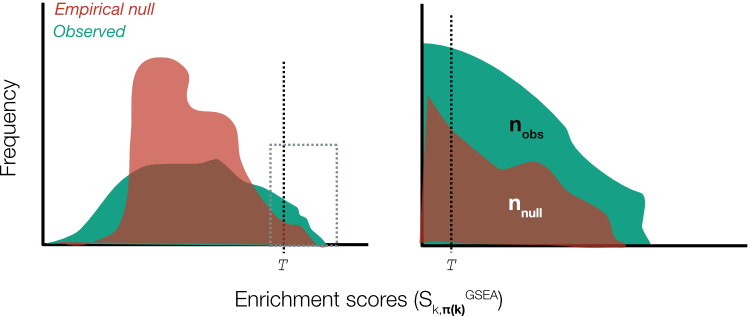
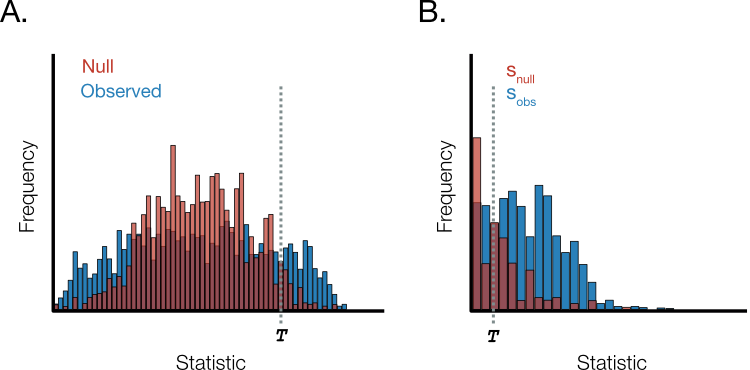
finished draft of FDR

diff --git a/_analysis/gsea.md b/_analysis/gsea.md
@@ -370,57 +370,86 @@ Note that throughout this discussion we have chosen to depict the GSEA global st
 ## <a href="#multipleTesting" name="multipleTesting">VII. Multiple testing correction</a>
 
 <div class="alert alert-warning text-justify" role="alert">
-  You may wish to review our primer on <a href="{{site.baseurl}}/primers/functional_analysis/multiple_testing/">multiple  testing</a> before reading this section, in particular, the section on <a href="{{site.baseurl}}/primers/functional_analysis/multiple_testing/#controllingFDR">false discovery rates</a>.
+  You may wish to review our primer on <a href="{{site.baseurl}}/primers/functional_analysis/multiple_testing/">multiple  testing</a>, in particular the section on <a href="{{site.baseurl}}/primers/functional_analysis/multiple_testing/#controllingFDR">false discovery rates</a>.
 </div>
 
-When we test a family of hypotheses, the chances of observing a rare value of a statistic increases. If those values exceed the significance level, they can be erroneously classified as discoveries, that is, they are Type I errors. Multiple testing procedures attempt to quantify and control for these.
+When we test a family of hypotheses, the chance of observing a statistic with a small p-value increases. When smaller than the significance level, they can be erroneously classified as discoveries or Type I errors. Multiple testing procedures attempt to quantify and control for these.
 
-In GSEA, the collection of gene sets interrogated against the observed data represents the family of test hypotheses. The recommended procedure for quantifying Type I errors is the false discovery rate (FDR). The FDR is defined as the expected value of the fraction of rejected null hypotheses that are true; In practice, GSEA attempts to establish this proportion empirically.
+In GSEA, the collection of gene sets interrogated against the observed data are a family of hypotheses. The recommended procedure for quantifying Type I errors is the false discovery rate (FDR). The FDR is defined as the expected value of the fraction of rejected null hypotheses that are in fact true. In practice, GSEA establishes this proportion empirically.
 
-In general, given a specified threshold $$T$$ of the global statistic, the FDR is be the number of true null hypotheses larger than $$T$$ divided by the sum of true and false null hypotheses larger than $$T$$. For GSEA, $$T$$ would be some value of the enrichment score and a true null hypothesis would arise from a gene set that is in fact not enriched. In practice, we estimate the number of true null hypotheses from the empirical null.
+In general, given a specified threshold $$T$$ of the global statistic, the FDR is be the number of true null hypotheses larger than $$T$$ divided by the sum of true and false null hypotheses larger than $$T$$. For GSEA, $$T$$ would be some value of the enrichment score and a true null hypothesis would represent a gene set that is in fact not enriched. In practice, we won't directly observe the latter so it is estimated from the values of the empirical null that exceed $$T$$ (Figure 6).
 
-![image]({{ site.baseurl }}/{{ site.media_root }}{{ page.id }}/{{ page.figures.figure_6 }}){: .img-responsive.slim }
+![image]({{ site.baseurl }}/{{ site.media_root }}{{ page.id }}/{{ page.figures.figure_6 }}){: .img-responsive }
 <div class="figure-legend well well-lg text-justify">
-  <strong>Figure 6. Empirical false discovery rate.</strong>. (Left) The observed value distribution and null value distribution derived by permutation methods. T represents the threshold. The boxed region is expanded on the right. (Right) Enlarged view of distribution tails. The number of null distribution values beyond the threshold is used to estimate the true null hypotheses and so the fraction of erroneous rejections is estimated as the ratio of the red and green regions right of T.
+  <strong>Figure 6. Empirical false discovery rate.</strong>. <strong>A.</strong> The distribution of observed statistics and null distribution derived by permutation methods. T represents the threshold. <strong>B.</strong> Enlarged view of right-hand distribution tail in A. The number of null distribution values beyond the threshold is used to estimate the true null hypotheses. The fraction of erroneous rejections is estimated as the ratio of s_null (red) to s_obs (blue) and a correction is introduced when the number of data points are unequal.
 </div>
 
-If the number of rejections is $$n_{obs}$$ then the empirical false discovery rate is
+Suppose there are $$n_{obs}$$ observed and $$n_{null}$$ empirical null distribution data points. If the number of observed and null statistics beyond the threshold $$T$$ are $$s_{obs}$$ and $$s_{null}$$, respectively, then the empirical false discovery rate is
 
 $$
-\begin{equation*}
-  \hat{FDR} = \frac{n_{null}}{n_{obs}}
-\end{equation*}
+\begin{equation} \label{eq:13}
+  \hat{FDR} = \frac{s_{null}}{s_{obs}} \cdot \frac{n_{obs}}{n_{null}}
+\end{equation}
 $$
 
 > For a nice primer on empirical methods for FDR estimation, we refer the reader to a well written piece by William S. Noble entitled *'How does multiple testing correction work?'* (Noble 2009).
 
-So why don't we just retrieve our sets of null distributions $$S_{k,\boldsymbol{\pi(k)}}^{GSEA}$$ and observed enrichment statistics  $$S_k^{GSEA}$$ and calculate the FDR? The problem lies in the dependence of the enrichment statistic on gene set size.
+At first glance, this appears to be quite a straightforward exercise: We retrieve our sets of null distributions $$S_{k,\boldsymbol{\pi(k)}}^{GSEA}$$ and observed enrichment statistics $$S_k^{GSEA}$$ and calculate the ratio for a given enrichment score threshold. However, there is one glaring problem: The enrichment statistic depends on gene set size which precludes comparison across gene sets.
 
 ### Normalized enrichment score: Accounting for gene set size
 
-It is clear that the global statistic $$S_k^{GSEA}$$ depends on gene set size (equations \eqref{eq:1} - \eqref{eq:3}). Consequently, unless we are dealing with gene sets of equal sizes, the enrichment scores will not be identically distributed and cannot be compared directly. This precludes the derivation of a p-value for any given candidate gene set.
+That the enrichment score depends on gene set size can be seen from the definition in equations \eqref{eq:1} - \eqref{eq:3}. Consequently, unless we are in an unlikely scenario where all the gene sets we test are of equal size, the enrichment scores will not be identically distributed and hence cannot be directly compared. This precludes the calculation of an empirical false discovery rate.
 
-GSEA solves this problem by normalizing the raw enrichment scores $$S_k^{GSEA}$$ such that they lie on a comparable scale. In particular, this normalized enrichment score is the raw enrichment score divided by the expected value (average) of the null distribution for that gene set. There are substantial differences in the way we generate this gene set null distribution compared to Subramanian *et al.*, discussed below.  
+GSEA solves this problem by applying a transformation to calculated enrichment scores such that they lie on a comparable scale. In particular, this normalized enrichment score (NES) is the enrichment score divided by the expected value (i.e. average) of the corresponding null distribution. Concretely, for each gene set we derive an enrichment score $$S_k^{GSEA}$$ and a corresponding null distribution $$S_{k,\boldsymbol{\pi(k)}}^{GSEA}$$ via gene set permutation.
 
-Then the relevant normalized enrichment score $$\zeta_k^{GSEA}$$ is the raw score divided by the mean of the class label permutation values
+The normalized enrichment score $$\zeta_k^{GSEA}$$ is the score divided by the expected value of the corresponding null
 
 $$
-\begin{equation} \label{eq:13}
+\begin{equation} \label{eq:14}
   \zeta_k^{GSEA} = \frac{S_k^{GSEA}}{E[S_{k,\boldsymbol{\pi(k)}}^{GSEA}]}
 \end{equation}
 $$
 
-where $$S_{k,\boldsymbol{\pi(k)}}^{GSEA} = \{S_{k,\pi_p}^{GSEA}: p=1,\ldots,N_k \}$$ is the vector of class label permutation enrichment scores and the subscript $$\boldsymbol{\pi(k)}$$ indicates the $$N_k$$ permutations out of a possible $$m!$$ rearrangements. This makes it possible to define a null distribution for the GSEA global statistics assuming a null distribution induced by phenotype permutation,
+In practice, we will partition the null into positive and negative values and use the average of these to normalize the positive and negative enrichment scores, respectively.
 
 $$
 \begin{equation*}
-  H_0^{GSEA}: \zeta_1^{GSEA},\zeta_2^{GSEA},\ldots,\zeta_K^{GSEA} \text{ are identically distributed and }  \zeta_k^{GSEA} \sim F_0^{phenotype}
+  \zeta_k^{GSEA} =
+    \begin{cases}
+      \frac{S_k^{GSEA}}{E[S_{k,\boldsymbol{\pi(k)}}^{GSEA} \mid S_{k,\boldsymbol{\pi(k)}}^{GSEA} \geq 0]} & \text{for } S_{k}^{GSEA} \geq 0\\
+      \frac{S_k^{GSEA}}{E[S_{k,\boldsymbol{\pi(k)}}^{GSEA} \mid S_{k,\boldsymbol{\pi(k)}}^{GSEA} \lt 0]} & \text{for } S_{k}^{GSEA} \lt 0\\
+    \end{cases}
 \end{equation*}
 $$
 
-### Weighting and normalization
+Remember that, in addition to the gene set enrichment scores (Figure 6, blue), we will also need a normalized null distribution $$\zeta_{k, \boldsymbol{\pi(k)}}^{GSEA}$$ for every gene set (Figure 6, red). Each element of a given null distribution will be determined in a similar fashion
 
-Lack of symmetry when weighting -- see Supplemental Text. So basically they try to compare how the permutation set looks against the C2 database which they propose a priori should look similar. However, there are strong biases in one of the modes which arises from the gene set tendency to be present in one of the two phenotypes. This is also reflected in the correlation plots. So they do this separately so that the areas and hence the p-values are more representative.
+$$
+\begin{equation*}
+  \zeta_{k,\pi_p}^{GSEA} =
+    \begin{cases}
+      \frac{S_{k,\pi_p}^{GSEA}}{E[S_{k,\boldsymbol{\pi(k)}}^{GSEA} \mid S_{k,\boldsymbol{\pi(k)}}^{GSEA} \geq 0]} & \text{for } S_{k,\pi_p}^{GSEA} \geq 0\\
+      \frac{S_{k,\pi_p}^{GSEA}}{E[S_{k,\boldsymbol{\pi(k)}}^{GSEA} \mid S_{k,\boldsymbol{\pi(k)}}^{GSEA} \lt 0]} & \text{for } S_{k,\pi_p}^{GSEA} \lt 0\\
+    \end{cases}
+\end{equation*}
+$$
+
+We can now restate the null hypothesis
+
+$$
+\begin{equation*}
+  \begin{split}
+    H_0^{GSEA} &: \zeta_{k}^{GSEA}, \ldots, \zeta_{k}^{GSEA}, \ldots, \zeta_{K}^{GSEA} \text{ are identically distributed and } \\
+    \zeta_{k}^{GSEA} &\sim F_0^{permutation}\\
+  \end{split}
+\end{equation*}
+$$
+
+where $$F_0^{permutation}$$ is derived empirically through $$\zeta_{k,\boldsymbol{\pi(k)}}^{GSEA}$$ over all gene sets.
+
+<hr/>
+
+Given the observed and null normalized enrichment scores, the FDR can be calculated using an approach similar to that described in the previous section (equation \eqref{eq:13}).
 
 ## <a href="#references" name="references">VII. References</a>
 <!-- <div class="panel_group" data-inline=" 20048385,15226741,26125594,19192285,15647293,15994189,22383865,12808457,20010596,16199517,23070592"></div> -->
